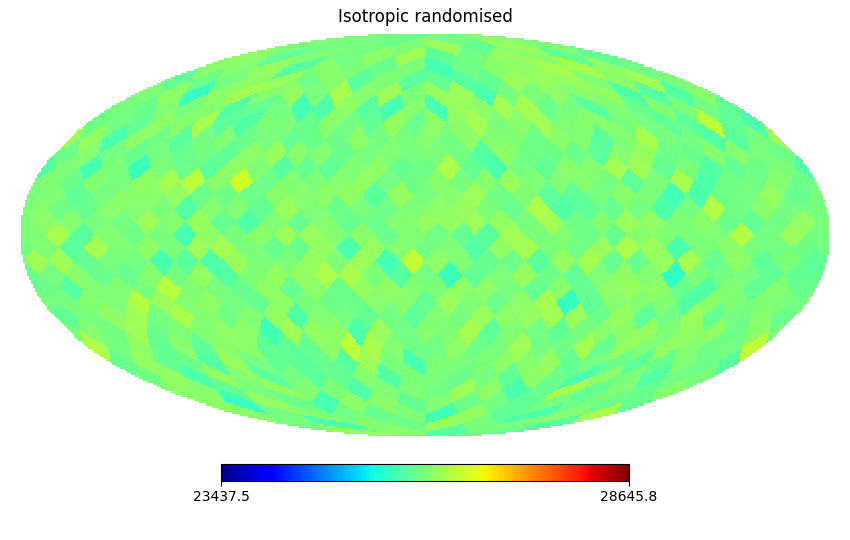
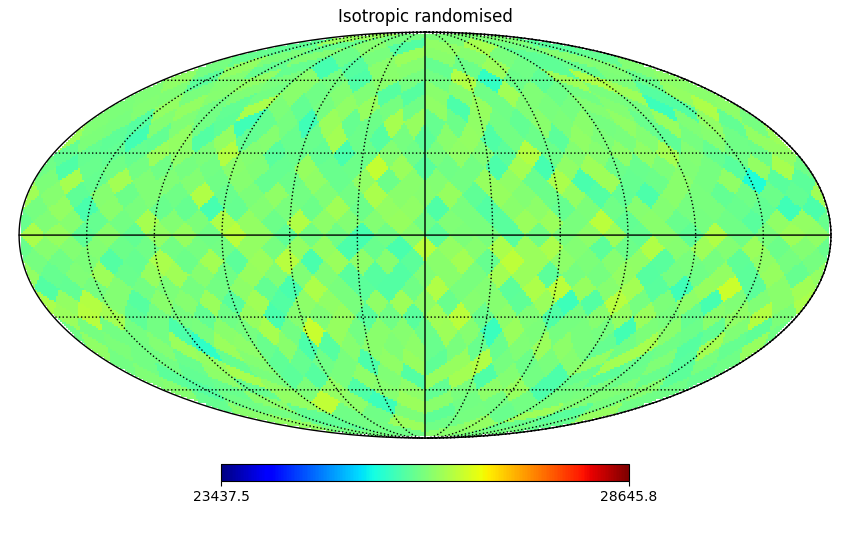
fix graticule

diff --git a/healpy/isotropic/analysis_iso.py b/healpy/isotropic/analysis_iso.py
@@ -56,15 +56,14 @@ for i in range(events):
 #hp_smoothed = hp.sphtfunc.smoothing(hpxmap2, fwhm=np.radians(1), iter = 1)
 
 hp.mollview(hpxmap2, cmap = cm.jet, xsize = SIZE, min = events*mult/npix*0.9, max = events*mult/npix*1.1, title='Isotropic randomised')
-fig = plt.gcf()
-ax = plt.gca()
+#fig = plt.gcf()
+#ax = plt.gca()
 #norm = mpl.colors.Normalize(vmin = 50, vmax = 150)
-image = ax.get_images()[0]
+#image = ax.get_images()[0]
 #cmap = fig.colorbar(image, norm = norm, orientation = 'horizontal')
 
-
-plt.savefig("map_iso.png", dpi = DPI)
 hp.graticule()
+plt.savefig("map_iso.png", dpi = DPI)
 
 
 '''
